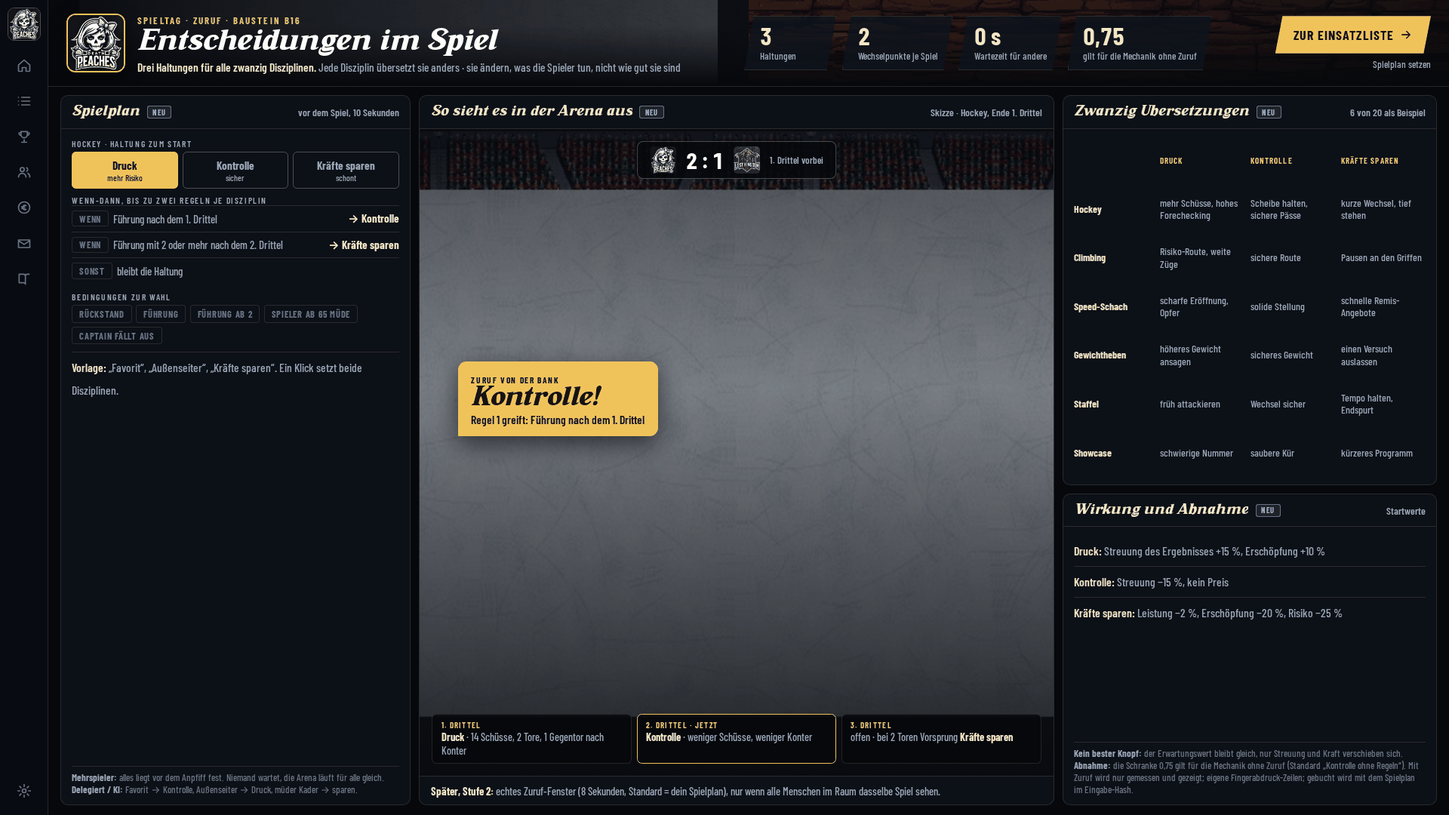
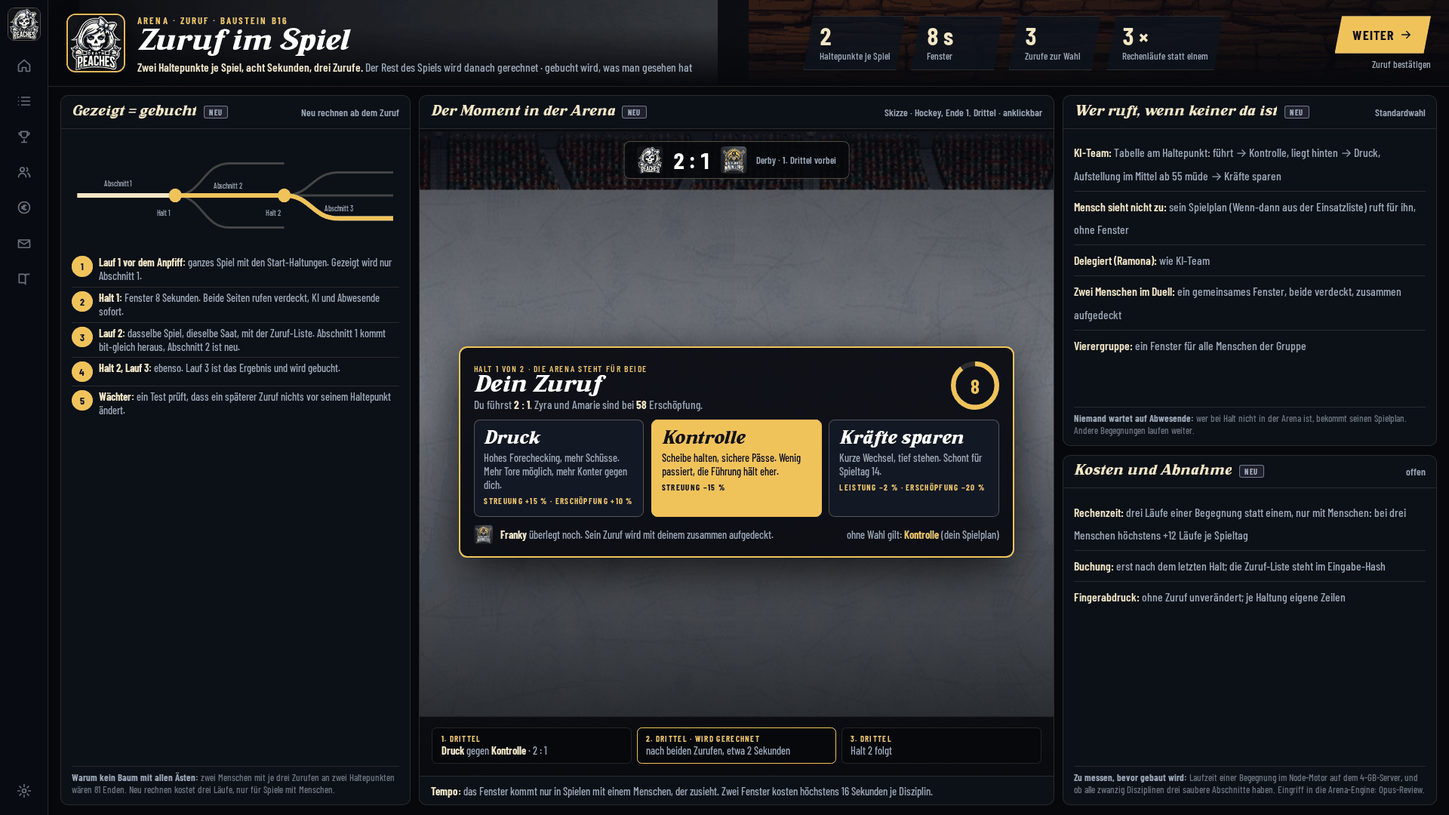
Rahmenkonzept Runde 6: Mini-Inventar, Team-Uebersicht, Schmiede, Zuruf in der Arena, Kiste mit PixelLab-Stilprobe (22.11.)
PixelLab: 7 Generationen (Requisiten und VFX), Herkunft in public/sprites/beute/quellen.json.

Claude-Session: https://claude.ai/code/session_01UYLNtXkprKr1XK4c3X2xQq

diff --git a/public/mockups/zwischen-den-spieltagen-22-11.html b/public/mockups/zwischen-den-spieltagen-22-11.html
@@ -384,6 +384,56 @@ main{display:grid;grid-template-rows:auto minmax(0,1fr);min-width:0;min-height:0
 .ere .duo{position:absolute;right:.9rem;top:.7rem;display:flex} .ere .duo img{width:3.4rem;height:3.4rem;border-radius:50%;object-fit:cover;object-position:center 15%;border:2px solid var(--acht);margin-left:-.8rem}
 .stimm{display:flex;align-items:center;gap:.8rem;margin-bottom:.4rem} .stimm strong{font-size:3rem;line-height:1;color:var(--creme)} .stimm svg{width:3.4rem;height:3.4rem} .stimm small{font-size:.86rem;color:var(--leise);line-height:1.25}
 .rate{display:grid;grid-template-columns:minmax(0,1fr) auto;gap:.1rem .6rem;font-size:.92rem;color:var(--leise);line-height:1.5} .rate b{text-align:right;font-variant-numeric:tabular-nums}
+
+/* ============ RUNDE 6: Kiste mit echten Bildern, Mini-Inventar, Team, Schmiede, Zuruf in der Arena ============ */
+.px{image-rendering:pixelated}
+.truhe2{position:relative;width:19rem;height:19rem;margin-bottom:6%;cursor:pointer}
+.truhe2 img{position:absolute;inset:0;width:100%;height:100%;image-rendering:pixelated;filter:drop-shadow(0 1.2rem 1rem rgba(0,0,0,.7))}
+.truhe2 .offen{opacity:0} .truhe2 .kranz{inset:-45%;width:190%;height:190%;opacity:0;mix-blend-mode:screen;filter:none;z-index:-1}
+.hinw{position:absolute;left:0;right:0;bottom:2.2%;text-align:center;font-size:1rem;color:var(--leise);letter-spacing:.08em;text-transform:uppercase;font-weight:700}
+@keyframes wippen{0%,100%{transform:translateY(0)}50%{transform:translateY(-.5rem)}}
+@keyframes dreh2{to{transform:rotate(360deg)}}
+@keyframes kranzpuls{0%,100%{opacity:.55;transform:scale(.62)}50%{opacity:.95;transform:scale(.8)}}
+.buehne.p0 .truhe2{animation:wippen 1.8s ease-in-out infinite}
+.buehne.p1 .truhe2{animation:ruettel .5s ease-in-out infinite}
+.buehne.p2 .truhe2{animation:ruettel .26s ease-in-out infinite} .buehne.p2 .truhe2 .kranz{animation:kranzpuls .4s infinite}
+.buehne.p3 .truhe2 .zu{opacity:0} .buehne.p3 .truhe2 .offen{opacity:1} .buehne.p3 .truhe2 .kranz{opacity:.95;animation:dreh2 18s linear infinite;transition:opacity .3s}
+.buehne.p1 .hinw,.buehne.p2 .hinw,.buehne.p3 .hinw{opacity:0}
+.fk2{width:13rem;height:17.3rem;padding:1.5rem 1.2rem 1rem;background:url(../sprites/beute/fundrahmen.png) center/100% 100% no-repeat;image-rendering:pixelated;border:0!important;border-radius:0;box-shadow:none;filter:drop-shadow(0 0 1.2rem color-mix(in srgb,var(--sf) 70%,transparent))}
+.fk2 img.ic2{width:5.4rem;height:5.4rem;margin:.1rem auto .3rem;image-rendering:pixelated}
+.fk2 b{font-size:1.1rem!important} .fk2 small{font-size:.82rem!important}
+/* Mini-Inventar */
+.sl3{position:absolute;width:16.5rem}
+.inv{display:inline-flex;gap:.25rem;vertical-align:middle} .inv i{width:1.9rem;height:1.9rem;border-radius:.3rem;border:1px solid var(--sf,var(--linie-2));display:grid;place-items:center;font-style:normal;font-size:1rem;color:var(--sf,var(--stumm));background:color-mix(in srgb,var(--sf,transparent) 18%,#0c1017)} .inv i.leer{border-style:dashed;--sf:var(--stumm);background:none} .inv i.v{border-radius:50%}
+.schm{grid-column:1/4;display:grid;grid-template-columns:15rem repeat(3,minmax(0,1fr)) 14rem;gap:.6rem;align-items:stretch;padding:.6rem .9rem;background:var(--flaeche-1);border:1px solid rgba(240,195,90,.4);border-radius:var(--r)}
+.schm h3{margin:0 0 .15rem;font:400 1.25rem/1 var(--haus);color:var(--creme)} .schm p{font-size:.86rem;color:var(--leise);line-height:1.2}
+.rez{display:flex;align-items:center;gap:.5rem;padding:.4rem .6rem;border-radius:.4rem;background:var(--flaeche-2);border:1px solid var(--linie);font-size:.86rem;color:var(--leise);line-height:1.2;cursor:pointer}
+.rez.gew{border-color:var(--gold)} .rez .gi{width:2.4rem;height:2.4rem;font-size:1.2rem;flex:none} .rez b{color:var(--creme)} .rez .pf2{font-size:1.4rem;color:var(--gold);font-weight:700}
+.rez em{font-style:normal;font-size:.66rem;letter-spacing:.12em;text-transform:uppercase;font-weight:700;color:var(--gold);display:block}
+/* Team-Uebersicht */
+.tm{display:grid;grid-template-columns:minmax(0,1fr) 27rem;gap:.72rem;padding:.7rem 1rem .8rem;min-height:0}
+.tgr{display:grid;grid-template-columns:repeat(7,minmax(0,1fr));grid-template-rows:repeat(2,minmax(0,1fr));gap:.55rem;flex:1;min-height:0}
+.tk{position:relative;display:flex;flex-direction:column;border-radius:.5rem;overflow:hidden;border:1px solid var(--linie-2);background:#111;min-height:0;cursor:pointer}
+.tk.gew{border-color:var(--gold);box-shadow:0 0 0 1px var(--gold) inset}
+.tk img.bg{position:absolute;inset:0;width:100%;height:100%;object-fit:cover;object-position:center 15%}
+.tk::after{content:"";position:absolute;inset:0;background:linear-gradient(180deg,transparent 30%,rgba(4,6,10,.97) 68%)}
+.tk .un{position:relative;z-index:1;margin-top:auto;padding:.45rem .5rem .5rem}
+.tk b{display:block;font:400 1.05rem/1.05 var(--haus);color:#fff;white-space:nowrap;overflow:hidden;text-overflow:ellipsis} .tk small{font-size:.76rem;color:var(--leise);display:block;margin-bottom:.3rem}
+.tk .eff{position:absolute;z-index:1;right:.35rem;top:.35rem;padding:.05rem .4rem;border-radius:.2rem;background:rgba(6,8,12,.8);font-weight:700;font-size:.86rem}
+/* Zuruf in der Arena */
+.zf{position:absolute;left:50%;top:50%;transform:translate(-50%,-50%);width:min(46rem,92%);padding:1rem 1.1rem;border-radius:.7rem;background:rgba(8,11,17,.94);border:2px solid var(--gold);box-shadow:0 1rem 4rem rgba(0,0,0,.8)}
+.zf h3{margin:0;font:400 1.9rem/1 var(--haus);color:#fff} .zf .ob{display:flex;align-items:center;gap:1rem;margin-bottom:.7rem} .zf .ob p{font-size:.95rem;color:var(--leise)} .zf .ob p b{color:var(--creme)}
+.uhr{margin-left:auto;width:4rem;height:4rem;flex:none;position:relative;display:grid;place-items:center;font-size:1.7rem;font-weight:700;color:var(--gold)}
+.uhr svg{position:absolute;inset:0;transform:rotate(-90deg)} .uhr circle{fill:none;stroke-width:4} .uhr .lauf{stroke:var(--gold);stroke-dasharray:113;stroke-dashoffset:0}
+@keyframes ablauf{to{stroke-dashoffset:113}} .zf.laeuft .uhr .lauf{animation:ablauf 8s linear forwards}
+.zw{display:grid;grid-template-columns:repeat(3,minmax(0,1fr));gap:.6rem}
+.zb{padding:.8rem .8rem;border-radius:.5rem;border:1px solid var(--linie-2);background:var(--flaeche-2);cursor:pointer;font-size:.9rem;color:var(--leise);line-height:1.25}
+.zb:hover{border-color:var(--gold)} .zb.gew{background:var(--gold);color:#17120a;border-color:var(--gold)} .zb.gew b,.zb.gew em{color:#17120a}
+.zb b{display:block;font:400 1.5rem/1 var(--haus);color:#fff;margin-bottom:.25rem} .zb em{font-style:normal;font-size:.68rem;letter-spacing:.12em;text-transform:uppercase;font-weight:700;color:var(--gold);display:block;margin-top:.35rem}
+.zf .fu{display:flex;align-items:center;gap:.6rem;margin-top:.7rem;font-size:.9rem;color:var(--leise)} .zf .fu img{width:1.6rem;height:1.6rem;border-radius:.25rem}
+.baum{width:100%;flex:none;height:9.5rem}
+.schr{display:grid;grid-template-columns:1.7rem minmax(0,1fr);gap:.1rem .5rem;font-size:.9rem;color:var(--leise);line-height:1.25;padding:.3rem 0;border-top:1px solid var(--linie)} .schr:first-of-type{border-top:0}
+.schr i{font-style:normal;width:1.7rem;height:1.7rem;border-radius:50%;display:grid;place-items:center;font-weight:700;font-size:.86rem;color:#17120a;background:var(--gold)} .schr b{color:var(--creme)}
 </style>
 </head>
 <body>
@@ -402,7 +452,7 @@ function lg(c,k){return '<img class="'+(k||"lg")+'" src="../team-logos/'+c+'.jpg
 function po(s){return '<img class="po" src="../portraits/'+s+'.jpg" alt="">'}
 function kul(d,b){return "../sprites/kulissen/"+d+"/"+b+".jpg"}
 $("rail").innerHTML='<span class="logo"><img src="../team-logos/D-P.jpg" alt=""></span>'+[["haus",A==="woche"],["liste"],["pokal",A==="liga"||A==="lage"],["leute",A==="ausruestung"],["geld"],["post"],["buch",A==="rahmen"]].map(function(r){return '<a class="'+(r[1]?"an":"")+'">'+ic(I[r[0]])+'</a>'}).join("")+'<span class="luecke"></span><a>'+ic(I.zahn)+'</a>';
-$("demoz").innerHTML=[["rahmen","Rahmen"],["nachspiel","Nach dem Spiel"],["woche","Die Woche"],["ausruestung","Ausrüstung"],["kiste","Kiste öffnen"],["zuruf","Zuruf im Spiel"],["lage","Liga-Lage"],["kabine","Kabine"],["verein","Verein"],["welt","Welt"],["aera","Kader und Ära"],["liga","Ligaformat"]].map(function(z){return '<a class="'+(z[0]===A?"an":"")+'" href="?ansicht='+z[0]+'">'+z[1]+'</a>'}).join("");
+$("demoz").innerHTML=[["rahmen","Rahmen"],["nachspiel","Nach dem Spiel"],["woche","Die Woche"],["ausruestung","Ausrüstung"],["team","Team"],["kiste","Kiste öffnen"],["zuruf","Zuruf im Spiel"],["lage","Liga-Lage"],["kabine","Kabine"],["verein","Verein"],["welt","Welt"],["aera","Kader und Ära"],["liga","Ligaformat"]].map(function(z){return '<a class="'+(z[0]===A?"an":"")+'" href="?ansicht='+z[0]+'">'+z[1]+'</a>'}).join("");
 function hero(o){return '<header class="hero"><div class="kul"><i style="background-image:url('+o.kul[0]+')"></i><i style="background-image:url('+o.kul[1]+')"></i></div><div class="hk"><span class="crest">'+lg("D-P","")+'</span><div><em>'+o.kick+'</em><h1>'+o.titel+'</h1><span class="lage">'+o.lage+'</span></div></div><div class="kpis">'+o.kpi.map(function(k){return '<div class="kpi"><strong class="t">'+k[0]+'</strong><small>'+k[1]+'</small></div>'}).join("")+'</div><div class="cta"><a class="btn haupt">'+o.cta[0]+' '+ic(I.pfeil)+'</a><small>'+o.cta[1]+'</small></div></header>'}
 function pan(st,tit,inh,re,alt){return '<section class="pan" style="'+st+'"><div class="pk"><h2>'+tit+'</h2>'+(alt?"":'<span class="neu">neu</span>')+'<span class="sp"></span>'+(re||"")+'</div><div class="pb">'+inh+'</div></section>'}
 var SF=["var(--s0)","var(--s1)","var(--s2)","var(--s3)"],SN=["Standard","Selten","Episch","Legendär"];
@@ -452,21 +502,25 @@ function ausruestung(){
  function sl(st,s,slot,icon,name,bo,scope,hbt,pz){return '<div class="sl" style="'+st+';--sf:'+SF[s]+'"><div class="ob">'+gi(icon,s)+'<div><span class="gk">'+slot+' · '+SN[s]+'</span><b>'+name+'</b></div></div><span class="bo t">'+bo+'</span> · '+scope+hb(pz,hbt)+'</div>'}
  var FC=[["13","Climbing","var(--pow)",51.2,54.1,"4. → 1.",1],["13","Wettessen","var(--soc)",38.4,39.6,"7.",0],["14","TDM","var(--pow)",47.0,49.3,"5. → 3.",0],["14","Staffel","var(--spe)",44.8,46.0,"6.",0],["15","Spurt","var(--spe)",46.1,47.3,"5.",0],["15","I-Spy","var(--men)",40.2,42.4,"8. → 6.",0],["16","Gewichtheben","var(--pow)",49.5,50.9,"3.",0]];
  return hero({kul:[kul("climbing","fels"),kul("hockey","eis")],kick:"Kader · Ausrüstung · vor Spieltag 13",titel:"Ausrüstung",lage:"<b>Gegenstände heben Attribute.</b> Die Wirkung läuft durch die Matrix in die Eignung, auch über das Potential hinaus · drei Arten: Disziplin, Farbe, allgemein",
-   kpi:[["8 <small>von 16</small>","Lager"],["3 <small>von 5</small>","Plätze belegt"],["<span class='plus'>+2,9</span>","Eignung im Climbing"],["5","Teile"]],cta:["Zur Einsatzliste","Spieltag 13 · Climbing und Wettessen"]})
+   kpi:[["8 <small>von 16</small>","Lager"],["3 <small>von 3</small>","Plätze belegt"],["<span class='plus'>+2,9</span>","Eignung im Climbing"],["5","Teile"]],cta:["Zur Einsatzliste","Spieltag 13 · Climbing und Wettessen"]})
  +'<div class="au2">'
  +pan("","Lager · 8 von 16",'<div class="fil"><span class="chip d">alle</span><span class="chip s">Disziplin</span><span class="chip s">Farbe</span><span class="chip s">allgemein</span><span class="chip s">passt zu Zyra</span></div><div class="lgl">'+lager+'</div>','<span class="re">ziehen oder anklicken</span>')
- +'<section class="pan"><div class="pk"><h2>Zyra</h2><span class="neu">neu</span><span class="sp"></span><span class="re">fünf Plätze: Kopf, Körper, Hände, Füße, Verbrauch</span></div><div class="figur"><svg class="lin" viewBox="0 0 100 100" preserveAspectRatio="none"><g stroke="rgba(244,230,196,.25)" stroke-width=".25" fill="none"><path d="M30 14 L44 26"/><path d="M70 14 L56 30"/><path d="M30 50 L40 52"/><path d="M70 50 L60 52"/><path d="M50 88 L50 78"/></g></svg><div class="bildr"><img src="../portraits/zyra.jpg" alt=""></div>'
-  +sl("left:2.5%;top:5%",2,"Kopf","kopf","Stirnband der Ruhe","+8 Will","immer aktiv","90 % · −5 % je Einsatz",90)
-  +'<div class="sl leer" style="right:2.5%;top:5%"><div class="ob">'+gi("trikot",0)+'<div><span class="gk">Körper · frei</span><b>leer</b></div></div>Vorschlag: <b style="font:600 inherit var(--zahl);color:var(--gold)">Glückstrikot</b> bringt Zyra wenig (SOC). Besser für Queen Loriana.</div>'
-  +sl("left:2.5%;top:41%",1,"Hände","hand","Sturmhandschuhe","+4 Dexterity","nur POW-Disziplinen","62 % · noch 4 Einsätze",62)
-  +'<div class="sl leer" style="right:2.5%;top:41%"><div class="ob">'+gi("schuh",0)+'<div><span class="gk">Füße · frei</span><b>leer</b></div></div>Vorschlag: <b style="font:600 inherit var(--zahl);color:var(--gold)">Leih-Spikes</b> +6 Speed für Staffel und Spurt (Spieltag 14, 15).</div>'
+ +'<section class="pan"><div class="pk"><h2>Zyra</h2><span class="neu">neu</span><span class="sp"></span><span class="re">drei Plätze: zwei Ausrüstung, ein Verbrauch</span></div><div class="figur"><svg class="lin" viewBox="0 0 100 100" preserveAspectRatio="none"><g stroke="rgba(244,230,196,.25)" stroke-width=".25" fill="none"><path d="M30 22 L42 34"/><path d="M70 22 L58 34"/><path d="M50 88 L50 78"/></g></svg><div class="bildr"><img src="../portraits/zyra.jpg" alt=""></div>'
+  +sl("left:2.5%;top:12%",2,"Ausrüstung 1","kopf","Stirnband der Ruhe","+8 Will","immer aktiv","90 % · −5 % je Einsatz",90)
+  +sl("right:2.5%;top:12%",1,"Ausrüstung 2","hand","Sturmhandschuhe","+4 Dexterity","nur POW-Disziplinen","62 % · noch 4 Einsätze",62)
   +'<div class="sl" style="left:50%;transform:translateX(-50%);bottom:13%;--sf:'+SF[0]+';border-color:var(--gold)"><div class="ob">'+gi("kreide",0,"1")+'<div><span class="gk">Verbrauch · Einweg</span><b>Kreideblock</b></div></div><span class="bo t">+8 Power</span> · nur Climbing, Gewichtheben · danach weg</div>'
-  +'<div class="nam"><b>Zyra</b><small>Charger · Demon · Klassenfarbe POW</small></div></div></section>'
+  +'<div class="sl leer" style="left:2.5%;top:52%"><div class="ob">'+gi("schuh",0)+'<div><span class="gk">Tauschen?</span><b>Leih-Spikes</b></div></div>+6 Speed bringt Zyra in Staffel und Spurt mehr als die Handschuhe. Ein Platz muss dafür frei werden.</div>'
+  +'<div class="sl leer" style="right:2.5%;top:52%"><div class="ob">'+gi("trikot",0)+'<div><span class="gk">Warum nur drei</span><b>14 Spieler</b></div></div>Höchstens 28 Ausrüstungen und 14 Verbrauch im ganzen Kader. Das Lager fasst 16: man muss wählen, wer was trägt.</div>'
+  +'<div class="nam"><b>Zyra</b><small>Charger · Demon · Klassenfarbe POW · <a class="gold" href="?ansicht=team">alle 14 Spieler ›</a></small></div></div></section>'
  +'<div style="display:grid;grid-template-rows:auto minmax(0,1fr);gap:.72rem;min-height:0">'
  +pan("","Attribute mit Ausrüstung",[["Power",62,8,70],["Will",49,8,55],["Dexterity",58,4,66]].map(function(a){return '<div class="attz"><span>'+a[0]+'</span><span class="bb"><i style="width:'+a[1]+'%"></i><i class="pl" style="left:'+a[1]+'%;width:'+a[2]+'%"></i><u style="left:'+a[3]+'%"></u></span><span class="t" style="text-align:right">'+a[1]+' <b class="plus">+'+a[2]+'</b></span></div>'}).join("")+'<div class="fz"><b>Goldene Marke = Potential.</b> Power und Will liegen mit Ausrüstung am oder über dem Potential: das ist gewollt, der Bonus ist nicht gedeckelt. Dexterity zählt nur in POW-Disziplinen.</div>','<span class="re">gezeigt = gebucht</span>')
- +pan("","Was bringt es wann",'<div class="fc kopf"><span>Spieltag</span><span>Disziplin</span><span class="r">ohne</span><span class="r">mit</span><span class="r">im Team</span></div>'+FC.map(function(f){return '<div class="fc'+(f[6]?" top":"")+'"><span class="t">'+f[0]+'</span><span><i class="dot" style="background:'+f[2]+'"></i><b>'+f[1]+'</b></span><span class="r">'+f[3].toFixed(1).replace(".",",")+'</span><span class="r"><b class="plus">'+f[4].toFixed(1).replace(".",",")+'</b></span><span class="r">'+f[5]+'</span></div>'}).join("")+'<div class="fz"><b>Lohnt am meisten:</b> Climbing an Spieltag 13 (+2,9 mit Kreideblock). <b>Achtung:</b> der Kreideblock ist dann weg; für Gewichtheben an Spieltag 16 bräuchtest du einen zweiten.</div>','<span class="re">Eignung von Zyra, nächste vier Spieltage</span>')
+ +pan("","Was bringt es wann",'<div class="fc kopf"><span>Spieltag</span><span>Disziplin</span><span class="r">ohne</span><span class="r">mit</span><span class="r">im Team</span></div>'+FC.map(function(f){return '<div class="fc'+(f[6]?" top":"")+'"><span class="t">'+f[0]+'</span><span><i class="dot" style="background:'+f[2]+'"></i><b>'+f[1]+'</b></span><span class="r">'+f[3].toFixed(1).replace(".",",")+'</span><span class="r"><b class="plus">'+f[4].toFixed(1).replace(".",",")+'</b></span><span class="r">'+f[5]+'</span></div>'}).join("")+'<div class="fz"><b>Lohnt am meisten:</b> Climbing an Spieltag 13 (+2,9 mit Kreideblock). <b>Vormerken:</b> ein Teil lässt sich für eine kommende Disziplin reservieren; die Einsatzliste legt es an und warnt, wenn es vorher weg ist (Gewichtheben, Spieltag 16).</div>','<span class="re">Eignung von Zyra, nächste vier Spieltage</span>')
  +'</div>'
- +'<div class="plan"><div><h3>Vormerken</h3><p>Ein Gegenstand lässt sich für eine kommende Disziplin vormerken. Die Einsatzliste legt ihn dann an und erinnert daran.</p></div><div class="pt"><em>Spieltag 13 · heute</em><b>Kreideblock</b> an Zyra im Climbing · <b>Meisterbrett</b> bleibt bei Conan (kein Schach)</div><div class="pt"><em>Spieltag 14</em><b>Leih-Spikes</b> an Emilia in der Staffel vorgemerkt</div><div class="pt warn"><em>Spieltag 15</em><b>Leih-Spikes</b> im Spurt: letzter Spieltag der Leihgabe</div><div class="pt warn"><em>Spieltag 16</em>Gewichtheben: <b>kein Kreideblock mehr</b>. Händler oder Kiste?</div></div>'
+ +'<div class="schm"><div><h3>Schmiede</h3><p>Zusammenlegen mit <b style="color:var(--creme)">festem Ausgang</b>, kein Würfel. Kostet Teile und etwas Geld. <a class="gold" href="?ansicht=team">Team-Übersicht ›</a></p></div>'
+  +'<div class="rez gew">'+gi("brille",0,"3")+'<span><em>Drei gleiche</em><b>3 × Alte Zielbrille</b><br>+3 Awareness, zusammen 95 %</span><span class="pf2">→</span>'+gi("brille",1)+'<span><b>Falkenbrille</b><br>Selten · +6 Awareness · 100 % · 0,5 C</span></div>'
+  +'<div class="rez">'+gi("hand",1)+'<span><em>Aufwerten</em><b>Sturmhandschuhe + 4 Teile</b><br>+4 Dexterity, 62 %</span><span class="pf2">→</span>'+gi("hand",1,"+")+'<span><b>Sturmhandschuhe +1</b><br>+5 Dexterity · 100 % · höchstens +2</span></div>'
+  +'<div class="rez">'+gi("mantel",1)+'<span><em>Zerlegen oder reparieren</em><b>Bühnenmantel (kaputt)</b><br>zerlegen: 2 Teile</span><span class="pf2">⇄</span><span><b>3 Teile</b><br>reparieren auf 80 %</span></div>'
+  +'<div><span class="gk">KI-Regel</span><p style="margin-top:.2rem">Legt drei gleiche zusammen, sobald sie liegen und keiner getragen wird. Wertet das meistgenutzte Teil auf, wenn Teile ≥ 4.</p></div></div>'
  +'</div>'}
 
 /* ======================= BEISPIEL 3 · LIGA-LAGE ======================= */
@@ -544,28 +598,45 @@ function welt(){
 
 /* ======================= RUNDE 2 · KISTE OEFFNEN ======================= */
 function kisteA(){
- var ziel=["var(--s0)","var(--s1)","var(--s2)","var(--s3)"][2];
- var F=[["schuh",2,"Windläufer","+7","Spurt, Staffel, Time Trial","neu · −10 % je Einsatz"],["riegel",0,"Energieriegel ×3","+4","jede Disziplin","Einweg"],["hand",1,"Sturmhandschuhe","+4","Hockey, Football, Basketball","Duplikat → 2 Teile"]];
- return hero({kul:[kul("gewichtheben","hafen"),kul("tdm","basis")],kick:"Die Woche · Beute · Eisenkiste",titel:"Kiste öffnen",lage:"<b>Vier Takte in 3 Sekunden:</b> rütteln, Lichtspalt in der Farbe des besten Fundes, Deckel, Auftritt · dann 1 aus 3 wählen",
+ var ziel="var(--s2)";
+ var F=[["icon-windlaeufer",2,"Windläufer","+10 Speed","Spurt, Staffel, Time Trial","neu · −10 % je Einsatz"],["icon-energieriegel",0,"Energieriegel ×3","+3 Stamina","allgemein","Einweg"],["icon-sturmhandschuhe",1,"Sturmhandschuhe","+4 Dexterity","POW-Disziplinen","Duplikat → 2 Teile"]];
+ return hero({kul:[kul("gewichtheben","hafen"),kul("tdm","basis")],kick:"Die Woche · Beute · Eisenkiste",titel:"Kiste öffnen",lage:"<b>Klick auf die Kiste.</b> Rütteln, Licht in der Farbe des besten Fundes, Deckel, drei Funde · dann einen wählen · Bilder aus der PixelLab-Stilprobe",
    kpi:[["20","Ruhm bezahlt"],["3 <small>von 5</small>","bis sicher Episch"],["8 <small>von 16</small>","Lager"],["5","Teile"]],cta:["Zum Lager","Fund anlegen"]})
  +'<div class="ki3">'
- +pan("","Kreislauf der Ausrüstung",[["1","Woher","Ruhm aus Punkten kauft Kisten. Laden für Geld (nur Standard, Selten). Sponsor-Leihgabe. Belohnung für Wimpel und Ziele."],["2","Lager","16 Plätze je Verein. Duplikate werden Teile."],["3","Anlegen","In der Einsatzliste am Platz: ein Feld Ausrüstung, ein Feld Verbrauch je Spieler. Vorschlag-Knopf rüstet wie die KI."],["4","Wirkung","Punkte on top in den Disziplinen des Gegenstands. Sichtbar in Vorschau, Arena-Einblendung und „Deine Entscheidungen“."],["5","Abnutzung","Einweg weg, Leihgabe läuft ab, Verschleiß je Einsatz, Vollgas doppelt."],["6","Zurück","Reparatur mit Teilen (höchstens 80 %) oder zerlegen. Teile kommen nur aus Beute, nicht aus Geld."]].map(function(k){return '<div class="krs"><i>'+k[0]+'</i><span><b>'+k[1]+'</b>'+k[2]+'</span></div>'}).join(""),'<span class="re">sechs Schritte</span>')
- +'<section class="pan"><div class="pk"><h2>Eisenkiste</h2><span class="neu">neu</span><span class="sp"></span><span class="re">CSS/SVG-Skizze · Kiste und Funken später aus PixelLab</span></div><div class="buehne p1" id="buehne" style="--ziel:'+ziel+'"><span class="strahl"></span><span class="boden"></span><div class="fund" id="fund">'+F.map(function(f,i){return '<div class="fk'+(i===0?" gew":"")+'" style="--sf:'+SF[f[1]]+'">'+gi(f[0],f[1])+'<em>'+SN[f[1]]+'</em><b>'+f[2]+'</b><strong class="t">'+f[3]+'</strong><small>'+f[4]+'<br>'+f[5]+'</small></div>'}).join("")+'</div><div class="truhe"><span class="licht"></span><svg viewBox="0 0 220 180"><path d="M24 92h172v66a10 10 0 0 1-10 10H34a10 10 0 0 1-10-10z" fill="#3a2c18" stroke="#8f9bb0" stroke-width="4"/><path d="M60 92v76M160 92v76" stroke="#8f9bb0" stroke-width="9"/><g class="deckel"><path d="M24 92c0-40 30-66 86-66s86 26 86 66z" fill="#4a3920" stroke="#8f9bb0" stroke-width="4"/><path d="M60 40v52M160 40v52" stroke="#8f9bb0" stroke-width="9"/><rect x="94" y="78" width="32" height="30" rx="5" fill="#f0c35a" stroke="#17120a" stroke-width="2"/><circle cx="110" cy="92" r="5" fill="#3a2c18"/></g></svg></div></div><div class="steuer"><a class="btn klein g" id="nochmal">nochmal öffnen</a><span>Antippen überspringt. Die Farbe des Lichts verrät die Seltenheit eine halbe Sekunde vor dem Fund.</span><span class="ph" id="ph"><i>rütteln</i><i>Lichtspalt</i><i>Auftritt</i></span></div></section>'
+ +pan("","Kreislauf der Ausrüstung",[["1","Woher","Ruhm aus Punkten kauft Kisten. Fahrende Händler für Geld (Standard bis Episch). Sponsor-Leihgabe. Belohnung für Wimpel und Ziele."],["2","Lager","16 Plätze je Verein. Duplikate werden Teile."],["3","Anlegen","Drei Plätze je Spieler: zwei Ausrüstung, ein Verbrauch. Am Platz in der Einsatzliste oder in der Team-Übersicht."],["4","Wirkung","Hebt Attribute in den Disziplinen des Gegenstands. Sichtbar in Vorschau, Arena und „Deine Entscheidungen“."],["5","Abnutzung","Einweg weg, Leihgabe läuft ab, Verschleiß je Einsatz, Vollgas doppelt."],["6","Schmiede","Drei gleiche werden einer der nächsten Stufe, Teile werten auf oder reparieren. Immer mit festem Ausgang."]].map(function(k){return '<div class="krs"><i>'+k[0]+'</i><span><b>'+k[1]+'</b>'+k[2]+'</span></div>'}).join(""),'<span class="re">sechs Schritte</span>')
+ +'<section class="pan"><div class="pk"><h2>Eisenkiste</h2><span class="neu">neu</span><span class="sp"></span><span class="re">Stilprobe PixelLab · 7 Generationen · Bewegung ist CSS</span></div><div class="buehne p0" id="buehne" style="--ziel:'+ziel+'"><span class="strahl"></span><span class="boden"></span><div class="fund" id="fund">'+F.map(function(f,i){return '<div class="fk fk2'+(i===0?" gew":"")+'" style="--sf:'+SF[f[1]]+'"><img class="ic2" src="../sprites/beute/'+f[0]+'.png" alt=""><em>'+SN[f[1]]+'</em><b>'+f[2]+'</b><strong class="t" style="font-size:1.25rem">'+f[3]+'</strong><small>'+f[4]+'<br>'+f[5]+'</small></div>'}).join("")+'</div><div class="truhe2" id="truhe"><img class="kranz" src="../sprites/beute/lichtkranz.png" alt=""><img class="zu" src="../sprites/beute/kiste-eisen-zu.png" alt=""><img class="offen" src="../sprites/beute/kiste-eisen-offen.png" alt=""></div><span class="hinw">Klick auf die Kiste</span></div><div class="steuer"><a class="btn klein g" id="nochmal">nochmal öffnen</a><span>Die Farbe des Lichts verrät die Seltenheit eine halbe Sekunde vor dem Fund. Ein Klick auf einen Fund wählt ihn.</span><span class="ph" id="ph"><i>rütteln</i><i>Licht</i><i>Auftritt</i></span></div></section>'
  +'<div style="display:grid;grid-template-rows:minmax(0,1fr) minmax(0,1fr);gap:.72rem;min-height:0">'
- +pan("","Regie der Animation",'<div class="z"><b>0,0 s · Aufbau:</b> Kiste fällt ins Bild, rüttelt, dumpfer Ton</div><div class="z"><b>1,2 s · Spannung:</b> Rütteln schneller, Spalt, Licht pulsiert in <b style="color:var(--s2)">Seltenheitsfarbe</b></div><div class="z"><b>2,0 s · Deckel:</b> springt auf, Strahlen, Funken, Fanfare je Stufe</div><div class="z"><b>2,3 s · Auftritt:</b> drei Karten steigen auf und drehen sich um, die seltenste zuletzt</div><div class="z"><b>Wahl:</b> eine nehmen, zwei zerfallen sichtbar zu Teilen</div><div class="fz"><b>Mehrspieler:</b> epische und legendäre Funde stehen als Zeile im Liga-Ticker. <b>KI-Teams:</b> keine Animation, nur das Ergebnis.</div>','<span class="re">3 s, überspringbar</span>')
- +pan("","PixelLab-Bedarf",'<div class="z">3 Kisten (Holz, Eisen, Gold), je zu und offen<span class="re t"><b>6–9</b></span></div><div class="z">VFX: Lichtstrahl, Funken, Zerfall zu Teilen<span class="re t"><b>6–10</b></span></div><div class="z">Rund 60 Gegenstands-Icons<span class="re t"><b>60–80</b></span></div><div class="z">Kartenrahmen je Seltenheit (4)<span class="re t"><b>4–6</b></span></div><div class="z"><b>Summe</b><span class="re t"><b>rund 75–105 Generationen</b></span></div><div class="fz">Nur Requisiten und Effekte, keine Figuren und keine Figuren-Animation. Erst Stilprobe (Kiste + 5 Icons, rund 8), dann der Rest. Reserve 150 bleibt unberührt.</div>','<span class="re">Schätzung · nichts bestellt</span>')
+ +pan("","Regie der Animation",'<div class="z"><b>Klick:</b> die Kiste rüttelt, dumpfer Ton</div><div class="z"><b>1,2 s · Spannung:</b> schneller, ein Lichtkranz pulsiert in <b style="color:var(--s2)">Seltenheitsfarbe</b></div><div class="z"><b>2,0 s · Deckel:</b> Bild wechselt auf „offen“, der Kranz wächst und dreht</div><div class="z"><b>2,3 s · Auftritt:</b> drei Funde im Rahmen steigen auf und drehen sich um</div><div class="z"><b>Wahl:</b> einen nehmen, zwei werden zu Teilen</div><div class="fz"><b>Mehrspieler:</b> epische und legendäre Funde stehen im Liga-Ticker. <b>KI-Teams:</b> keine Animation, nur das Ergebnis.</div>','<span class="re">3 s, überspringbar</span>')
+ +pan("","PixelLab-Stilprobe",'<div class="z"><b>Bestellt (22.11.):</b> Kiste zu, Kiste offen, Lichtkranz, Fundrahmen, 3 Icons<span class="re t"><b>7,0</b></span></div><div class="z">Guthaben vorher / nachher<span class="re t">313,5 / 306,5</span></div><div class="z">Rest für Welle 3: 2 weitere Kisten, rund 57 Icons, Funken, Zerfall<span class="re t"><b>70–95</b></span></div><div class="fz">Nur Requisiten und Effekte. Liegt unter <span class="t">public/sprites/beute/</span>, Herkunft in <span class="t">quellen.json</span>. Nichts wird zur Laufzeit nachgeladen. Reserve 150 unberührt.</div>','<span class="re">je Bild 1 Generation</span>')
  +'</div></div>'}
-/* ======================= RUNDE 3 · ZURUF: ENTSCHEIDUNGEN IM SPIEL ======================= */
+/* ======================= RUNDE 6 · TEAM-UEBERSICHT AUSRUESTUNG ======================= */
+function team(){
+ var T=[["zyra","Zyra","Charger",[["kopf",2],["hand",1],["kreide",0,1]],"+2,9"],["amarie","Amarie","Charger",[["schuh",1],null,null],"+1,2"],["conan","Conan","Mage",[["brett",2],null,["riegel",0,1]],"±0"],["queen-loriana","Queen Loriana","Bard",[["trikot",3],null,null],"+1,8"],["zynara","Zynara","Mage",[null,null,null],"±0"],["lilithara","Lilithara","Rogue",[null,null,null],"±0"],["maru","Maru","Tank",[["trikot",1],null,null],"Moral"],["emilia","Emilia","Rogue",[null,null,["riegel",0,1]],"+0,6"],["aeon-flux","Aeon Flux","Templar",[null,null,null],"±0"],["brightpaw","Brightpaw","Sprinter",[null,null,null],"verletzt"],["kati","Kati","Bard",[null,null,null],"±0"],["aerin","Aerin","Bard",[null,null,null],"±0"],["lexa","Lexa","Sprinter",[null,null,null],"±0"],["kaylen","Kaylen","Templar",[null,null,null],"±0"]];
+ function inv(a){return '<span class="inv">'+a.map(function(x,i){return x?'<i class="'+(i===2?"v":"")+'" style="--sf:'+SF[x[1]]+'">'+ic(I[x[0]])+'</i>':'<i class="leer'+(i===2?" v":"")+'"></i>'}).join("")+'</span>'}
+ return hero({kul:[kul("climbing","fels"),kul("wettessen","bierzelt")],kick:"Kader · Ausrüstung · alle 14 Spieler",titel:"Wer trägt was",lage:"<b>Drei Plätze je Spieler:</b> zwei Ausrüstung (eckig), ein Verbrauch (rund) · ziehen vom Lager auf den Spieler oder „Vorschlag“ wie die KI",
+   kpi:[["7 <small>von 42</small>","Plätze belegt"],["8 <small>von 16</small>","im Lager"],["<span class='plus'>+1,1</span>","Teamwert Climbing heute"],["5","Teile"]],cta:["Vorschlag verteilen","für Climbing und Wettessen"]})
+ +'<div class="tm">'
+ +pan("","Kader",'<div class="tgr">'+T.map(function(t,i){return '<div class="tk'+(i===0?" gew":"")+'"><img class="bg" src="../portraits/'+t[0]+'.jpg" alt=""><span class="eff t '+(t[4].charAt(0)==="+"?"plus":"null")+'">'+t[4]+'</span><div class="un"><b>'+t[1]+'</b><small>'+t[2]+'</small>'+inv(t[3])+'</div></div>'}).join("")+'</div>','<span class="re">Zahl oben rechts: Eignung heute durch Ausrüstung · Klick öffnet den Spieler</span>')
+ +'<div style="display:grid;grid-template-rows:minmax(0,1.3fr) minmax(0,1fr);gap:.72rem;min-height:0">'
+ +pan("","Lager · nicht verteilt",[["schuh",1,"Leih-Spikes","+6 Speed · SPE-Disziplinen · noch 3 Spieltage","Vorschlag: Emilia"],["riegel",0,"Energieriegel","+3 Stamina · allgemein · Einweg","Vorschlag: Maru"],["brille",0,"Alte Zielbrille ×3","+3 Awareness · I-Spy, TDM","Schmiede: Falkenbrille"],["mantel",1,"Bühnenmantel","kaputt","3 Teile"]].map(function(g){return '<div class="ang">'+gi(g[0],g[1])+'<span><b>'+g[2]+'</b>'+g[3]+'</span><span class="pr t" style="font-size:.82rem;color:var(--gold)">'+g[4]+'</span></div>'}).join("")+'<div class="fz"><b>Vorschlag</b> verteilt nach derselben Regel wie die KI: jedes Teil an den aufgestellten Spieler, bei dem Bonus × Matrixgewicht am größten ist. Selbst Gesetztes bleibt.</div>','<a href="?ansicht=ausruestung">Schmiede ›</a>')
+ +pan("","Die Menge im Blick",'<div class="z"><b>Höchstens im Kader</b><span class="re t">28 Ausrüstung · 14 Verbrauch</span></div><div class="z"><b>Lager</b><span class="re t">16 Plätze</span></div><div class="z"><b>Üblich nach einer Saison</b><span class="re t">8 bis 12 Teile im ganzen Verein</span></div><div class="fz">Mit drei Plätzen bleibt ein Spieler mit drei guten Teilen ein Ausreißer, aber kein anderer Spieler. Die meisten tragen nichts.</div>','<span class="re">Startwerte</span>',1)
+ +'</div></div>'}
+
+/* ======================= RUNDE 6 · ZURUF IN DER ARENA ======================= */
 function zuruf(){
- var U=[["Hockey","mehr Schüsse, hohes Forechecking","Scheibe halten, sichere Pässe","kurze Wechsel, tief stehen"],["Climbing","Risiko-Route, weite Züge","sichere Route","Pausen an den Griffen"],["Speed-Schach","scharfe Eröffnung, Opfer","solide Stellung","schnelle Remis-Angebote"],["Gewichtheben","höheres Gewicht ansagen","sicheres Gewicht","einen Versuch auslassen"],["Staffel","früh attackieren","Wechsel sicher","Tempo halten, Endspurt"],["Showcase","schwierige Nummer","saubere Kür","kürzeres Programm"]];
- return hero({kul:[kul("hockey","eis"),kul("climbing","fels")],kick:"Spieltag · Zuruf · Baustein B16",titel:"Entscheidungen im Spiel",lage:"<b>Drei Haltungen für alle zwanzig Disziplinen.</b> Jede Disziplin übersetzt sie anders · sie ändern, was die Spieler tun, nicht wie gut sie sind",
-   kpi:[["3","Haltungen"],["2","Wechselpunkte je Spiel"],["0 s","Wartezeit für andere"],["0,75","gilt für die Mechanik ohne Zuruf"]],cta:["Zur Einsatzliste","Spielplan setzen"]})
+ var Z=[["Druck","Hohes Forechecking, mehr Schüsse. Mehr Tore möglich, mehr Konter gegen dich.","Streuung +15 % · Erschöpfung +10 %"],["Kontrolle","Scheibe halten, sichere Pässe. Wenig passiert, die Führung hält eher.","Streuung −15 %"],["Kräfte sparen","Kurze Wechsel, tief stehen. Schont für Spieltag 14.","Leistung −2 % · Erschöpfung −20 %"]];
+ return hero({kul:[kul("hockey","eis"),kul("climbing","fels")],kick:"Arena · Zuruf · Baustein B16",titel:"Zuruf im Spiel",lage:"<b>Zwei Haltepunkte je Spiel, acht Sekunden, drei Zurufe.</b> Der Rest des Spiels wird danach gerechnet · gebucht wird, was man gesehen hat",
+   kpi:[["2","Haltepunkte je Spiel"],["8 s","Fenster"],["3","Zurufe zur Wahl"],["3 ×","Rechenläufe statt einem"]],cta:["Weiter","Zuruf bestätigen"]})
  +'<div class="zu">'
- +pan("","Spielplan",'<span class="gk">Hockey · Haltung zum Start</span><div class="halt"><span class="an">Druck<small>mehr Risiko</small></span><span>Kontrolle<small>sicher</small></span><span>Kräfte sparen<small>schont</small></span></div><span class="gk">Wenn-dann, bis zu zwei Regeln je Disziplin</span><div class="wd"><span class="chip s">wenn</span><span>Führung nach dem 1. Drittel</span><b>→ Kontrolle</b></div><div class="wd"><span class="chip s">wenn</span><span>Führung mit 2 oder mehr nach dem 2. Drittel</span><b>→ Kräfte sparen</b></div><div class="wd"><span class="chip s">sonst</span><span>bleibt die Haltung</span><b></b></div><span class="gk" style="margin-top:.6rem">Bedingungen zur Wahl</span><div class="leits"><span class="chip s">Rückstand</span><span class="chip s">Führung</span><span class="chip s">Führung ab 2</span><span class="chip s">Spieler ab 65 müde</span><span class="chip s">Captain fällt aus</span></div><div class="z" style="margin-top:.3rem"><b>Vorlage:</b> „Favorit“, „Außenseiter“, „Kräfte sparen“. Ein Klick setzt beide Disziplinen.</div><div class="fz"><b>Mehrspieler:</b> alles liegt vor dem Anpfiff fest. Niemand wartet, die Arena läuft für alle gleich. <b>Delegiert / KI:</b> Favorit → Kontrolle, Außenseiter → Druck, müder Kader → sparen.</div>','<span class="re">vor dem Spiel, 10 Sekunden</span>')
- +'<section class="pan"><div class="pk"><h2>So sieht es in der Arena aus</h2><span class="neu">neu</span><span class="sp"></span><span class="re">Skizze · Hockey, Ende 1. Drittel</span></div><div class="arenab" style="--bild:url('+kul("hockey","eis")+')"><div class="stand">'+lg("D-P","")+'<span class="t">2 : 1</span>'+lg("L-K","")+'<small>1. Drittel vorbei</small></div><div class="ruf"><em>Zuruf von der Bank</em><b>Kontrolle!</b><span>Regel 1 greift: Führung nach dem 1. Drittel</span></div><div class="absch"><div><em>1. Drittel</em><b>Druck</b> · 14 Schüsse, 2 Tore, 1 Gegentor nach Konter</div><div class="jetzt"><em>2. Drittel · jetzt</em><b>Kontrolle</b> · weniger Schüsse, weniger Konter</div><div><em>3. Drittel</em>offen · bei 2 Toren Vorsprung <b>Kräfte sparen</b></div></div></div><div class="steuer"><span><b style="color:var(--creme)">Später, Stufe 2:</b> echtes Zuruf-Fenster (8 Sekunden, Standard = dein Spielplan), nur wenn alle Menschen im Raum dasselbe Spiel sehen.</span></div></section>'
- +'<div style="display:grid;grid-template-rows:minmax(0,1.25fr) minmax(0,1fr);gap:.72rem;min-height:0">'
- +pan("","Zwanzig Übersetzungen",'<div class="ueb"><span></span><span class="kh">Druck</span><span class="kh">Kontrolle</span><span class="kh">Kräfte sparen</span>'+U.map(function(u){return '<b>'+u[0]+'</b><span>'+u[1]+'</span><span>'+u[2]+'</span><span>'+u[3]+'</span>'}).join("")+'</div>','<span class="re">6 von 20 als Beispiel</span>')
- +pan("","Wirkung und Abnahme",'<div class="z"><b>Druck:</b> Streuung des Ergebnisses +15 %, Erschöpfung +10 %</div><div class="z"><b>Kontrolle:</b> Streuung −15 %, kein Preis</div><div class="z"><b>Kräfte sparen:</b> Leistung −2 %, Erschöpfung −20 %, Risiko −25 %</div><div class="fz"><b>Kein bester Knopf:</b> der Erwartungswert bleibt gleich, nur Streuung und Kraft verschieben sich. <b>Abnahme:</b> die Schranke 0,75 gilt für die Mechanik ohne Zuruf (Standard „Kontrolle ohne Regeln“). Mit Zuruf wird nur gemessen und gezeigt; eigene Fingerabdruck-Zeilen; gebucht wird mit dem Spielplan im Eingabe-Hash.</div>','<span class="re">Startwerte</span>')
+ +pan("","Gezeigt = gebucht",'<svg class="baum" viewBox="0 0 300 100" preserveAspectRatio="none"><g fill="none" stroke-width="2"><path d="M5 50 H95" stroke="#f4e6c4" stroke-width="4"/><path d="M95 50 C120 50 120 22 145 22 H195" stroke="rgba(244,230,196,.25)"/><path d="M95 50 H195" stroke="#f0c35a" stroke-width="4"/><path d="M95 50 C120 50 120 78 145 78 H195" stroke="rgba(244,230,196,.25)"/><path d="M195 50 C220 50 220 30 245 30 H295" stroke="rgba(244,230,196,.25)"/><path d="M195 50 H295" stroke="rgba(244,230,196,.25)"/><path d="M195 50 C220 50 220 70 245 70 H295" stroke="#f0c35a" stroke-width="4"/></g><circle cx="95" cy="50" r="6" fill="#f0c35a"/><circle cx="195" cy="50" r="6" fill="#f0c35a"/><g fill="#9aa7ba" font-size="7" font-family="Barlow Condensed"><text x="30" y="42">Abschnitt 1</text><text x="130" y="44">Abschnitt 2</text><text x="232" y="64">Abschnitt 3</text><text x="78" y="68">Halt 1</text><text x="178" y="68">Halt 2</text></g></svg>'
+   +[["1","<b>Lauf 1 vor dem Anpfiff:</b> ganzes Spiel mit den Start-Haltungen. Gezeigt wird nur Abschnitt 1."],["2","<b>Halt 1:</b> Fenster 8 Sekunden. Beide Seiten rufen verdeckt, KI und Abwesende sofort."],["3","<b>Lauf 2:</b> dasselbe Spiel, dieselbe Saat, mit der Zuruf-Liste. Abschnitt 1 kommt bit-gleich heraus, Abschnitt 2 ist neu."],["4","<b>Halt 2, Lauf 3:</b> ebenso. Lauf 3 ist das Ergebnis und wird gebucht."],["5","<b>Wächter:</b> ein Test prüft, dass ein späterer Zuruf nichts vor seinem Haltepunkt ändert."]].map(function(x){return '<div class="schr"><i>'+x[0]+'</i><span>'+x[1]+'</span></div>'}).join("")
+   +'<div class="fz"><b>Warum kein Baum mit allen Ästen:</b> zwei Menschen mit je drei Zurufen an zwei Haltepunkten wären 81 Enden. Neu rechnen kostet drei Läufe, nur für Spiele mit Menschen.</div>','<span class="re">Neu rechnen ab dem Zuruf</span>')
+ +'<section class="pan"><div class="pk"><h2>Der Moment in der Arena</h2><span class="neu">neu</span><span class="sp"></span><span class="re">Skizze · Hockey, Ende 1. Drittel · anklickbar</span></div><div class="arenab" style="--bild:url('+kul("hockey","eis")+')"><div class="stand">'+lg("D-P","")+'<span class="t">2 : 1</span>'+lg("V-W","")+'<small>Derby · 1. Drittel vorbei</small></div>'
+   +'<div class="zf laeuft" id="zf"><div class="ob"><div><span class="gk" style="color:var(--gold)">Halt 1 von 2 · die Arena steht für beide</span><h3>Dein Zuruf</h3><p>Du führst <b>2 : 1</b>. Zyra und Amarie sind bei <b>58</b> Erschöpfung.</p></div><span class="uhr"><svg viewBox="0 0 40 40"><circle cx="20" cy="20" r="18" stroke="rgba(244,230,196,.15)"/><circle class="lauf" cx="20" cy="20" r="18"/></svg><span id="zsek">8</span></span></div><div class="zw">'+Z.map(function(z,i){return '<div class="zb'+(i===1?" gew":"")+'" data-i="'+i+'"><b>'+z[0]+'</b>'+z[1]+'<em>'+z[2]+'</em></div>'}).join("")+'</div><div class="fu">'+lg("V-W","")+'<span id="zgeg"><b style="color:var(--creme)">Franky</b> überlegt noch. Sein Zuruf wird mit deinem zusammen aufgedeckt.</span><span style="margin-left:auto">ohne Wahl gilt: <b style="color:var(--gold)">Kontrolle</b> (dein Spielplan)</span></div></div>'
+   +'<div class="absch"><div><em>1. Drittel</em><b>Druck</b> gegen <b>Kontrolle</b> · 2 : 1</div><div class="jetzt"><em>2. Drittel · wird gerechnet</em>nach beiden Zurufen, etwa 2 Sekunden</div><div><em>3. Drittel</em>Halt 2 folgt</div></div></div><div class="steuer"><span><b style="color:var(--creme)">Tempo:</b> das Fenster kommt nur in Spielen mit einem Menschen, der zusieht. Zwei Fenster kosten höchstens 16 Sekunden je Disziplin.</span></div></section>'
+ +'<div style="display:grid;grid-template-rows:minmax(0,1fr) minmax(0,1fr);gap:.72rem;min-height:0">'
+ +pan("","Wer ruft, wenn keiner da ist",'<div class="z"><b>KI-Team:</b> Tabelle am Haltepunkt: führt → Kontrolle, liegt hinten → Druck, Aufstellung im Mittel ab 55 müde → Kräfte sparen</div><div class="z"><b>Mensch sieht nicht zu:</b> sein Spielplan (Wenn-dann aus der Einsatzliste) ruft für ihn, ohne Fenster</div><div class="z"><b>Delegiert (Ramona):</b> wie KI-Team</div><div class="z"><b>Zwei Menschen im Duell:</b> ein gemeinsames Fenster, beide verdeckt, zusammen aufgedeckt</div><div class="z"><b>Vierergruppe:</b> ein Fenster für alle Menschen der Gruppe</div><div class="fz"><b>Niemand wartet auf Abwesende:</b> wer bei Halt nicht in der Arena ist, bekommt seinen Spielplan. Andere Begegnungen laufen weiter.</div>','<span class="re">Standardwahl</span>')
+ +pan("","Kosten und Abnahme",'<div class="z"><b>Rechenzeit:</b> drei Läufe einer Begegnung statt einem, nur mit Menschen: bei drei Menschen höchstens +12 Läufe je Spieltag</div><div class="z"><b>Buchung:</b> erst nach dem letzten Halt; die Zuruf-Liste steht im Eingabe-Hash</div><div class="z"><b>Fingerabdruck:</b> ohne Zuruf unverändert; je Haltung eigene Zeilen</div><div class="fz"><b>Zu messen, bevor gebaut wird:</b> Laufzeit einer Begegnung im Node-Motor auf dem 4-GB-Server, und ob alle zwanzig Disziplinen drei saubere Abschnitte haben. Eingriff in die Arena-Engine: Opus-Review.</div>','<span class="re">offen</span>')
  +'</div></div>'}
 
 /* ======================= RUNDE 5 · KABINE UND MORAL ======================= */
@@ -585,16 +656,25 @@ function kabine(){
  +pan("","Für die Moral",[["trikot",1,"Glücksbringer","Ausrüstung, Körper · Moral des Trägers fällt nicht unter 40","im Lager"],["riegel",0,"Teamabend","Verbrauch · alle +6 Moral, einmal","Wirtin 1,2 C"],["schuh",2,"Mannschaftsfahrt","Verbrauch, nur Winterpause · alle +10, ein Streit endet","Markt 3,5 C"]].map(function(g){return '<div class="ang">'+gi(g[0],g[1])+'<span><b>'+g[2]+'</b>'+g[3]+'</span><span class="pr t" style="font-size:.9rem">'+g[4]+'</span></div>'}).join("")+'<div class="fz">Liegen im selben Lager wie die Ausrüstung und kommen von Händlern, aus Kisten und als Aktionskarte.</div>','<a href="?ansicht=ausruestung">Lager ›</a>')
  +'</div></div>'}
 
-function kisteLauf(){var b=$("buehne");if(!b)return;var ph=$("ph").children,fix=q.get("phase");
+var kisteT=[];
+function kisteLauf(start){var b=$("buehne");if(!b)return;var ph=$("ph").children,fix=q.get("phase");
  function setz(n){b.className="buehne p"+n+(fix==="3"?" still3":"");for(var i=0;i<3;i++)ph[i].className=i===n-1?"an":""}
+ kisteT.forEach(clearTimeout);kisteT=[];
  if(fix){setz(+fix);return}
- setz(1);setTimeout(function(){setz(2)},1200);setTimeout(function(){setz(3)},2000)}
-$("main").innerHTML=({rahmen:rahmen,woche:woche,ausruestung:ausruestung,lage:lage,liga:liga,nachspiel:nachspiel,aera:aera,verein:verein,welt:welt,kiste:kisteA,zuruf:zuruf,kabine:kabine}[A]||rahmen)();
-kisteLauf();
+ document.querySelectorAll(".fk").forEach(function(x){x.classList.remove("weg")});
+ if(!start){setz(0);return}
+ setz(1);kisteT.push(setTimeout(function(){setz(2)},1200));kisteT.push(setTimeout(function(){setz(3)},2000))}
+function zurufUhr(){var z=$("zsek");if(!z)return;var n=8,t=setInterval(function(){n--;z.textContent=Math.max(n,0);if(n<=0){clearInterval(t);$("zgeg").innerHTML='<b style="color:var(--creme)">Franky</b> ruft <b style="color:var(--gold)">Druck</b>. Das 2. Drittel läuft.'}},1000)}
+$("main").innerHTML=({rahmen:rahmen,woche:woche,ausruestung:ausruestung,lage:lage,liga:liga,nachspiel:nachspiel,aera:aera,verein:verein,welt:welt,kiste:kisteA,zuruf:zuruf,kabine:kabine,team:team}[A]||rahmen)();
+kisteLauf();zurufUhr();
 /* Klick-Verhalten der Beispiele */
 var HT=["<b>Eisbad</b> für Zyra, Amarie, Maru: 68 → 56, 66 → 54, 51 → 39","<b>Sondereinheit</b> für Conan: Speed-Schach-Weg +0,4 statt +0,2, Erschöpfung 22 → 28","<b>Fan-Tag:</b> Spieltag 13 ist ein Heimspiel, Stadion 0,6 → 0,75 C, Moral 64 → 67"];
 document.addEventListener("click",function(e){
- if(e.target.closest("#nochmal")){kisteLauf();return}
+ if(e.target.closest("#nochmal")){kisteLauf(false);setTimeout(function(){kisteLauf(true)},250);return}
+ if(e.target.closest("#truhe")){if($("buehne").classList.contains("p0"))kisteLauf(true);return}
+ var zb=e.target.closest(".zb");if(zb){document.querySelectorAll(".zb").forEach(function(x){x.classList.remove("gew")});zb.classList.add("gew");return}
+ var rz=e.target.closest(".rez");if(rz){document.querySelectorAll(".rez").forEach(function(x){x.classList.remove("gew")});rz.classList.add("gew");return}
+ var tk=e.target.closest(".tk");if(tk){document.querySelectorAll(".tk").forEach(function(x){x.classList.remove("gew")});tk.classList.add("gew");return}
  var fk=e.target.closest(".fk");if(fk){document.querySelectorAll(".fk").forEach(function(x){x.classList.remove("gew");x.classList.add("weg")});fk.classList.remove("weg");fk.classList.add("gew");return}
  var a2=e.target.closest(".akk");if(a2){document.querySelectorAll(".akk").forEach(function(x){x.classList.remove("gew")});a2.classList.add("gew");return}
  var hs=e.target.closest(".halt span");if(hs){hs.parentNode.querySelectorAll("span").forEach(function(x){x.classList.remove("an")});hs.classList.add("an");return}
